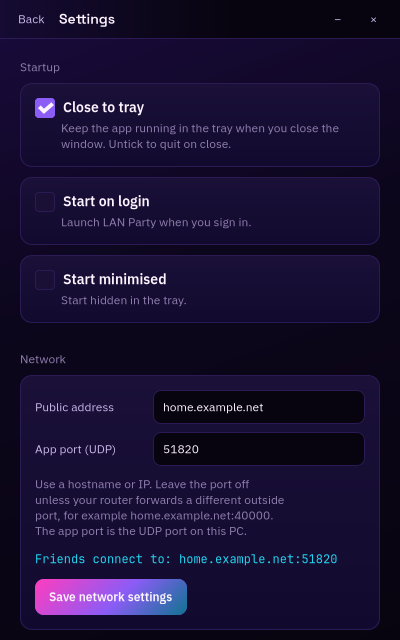
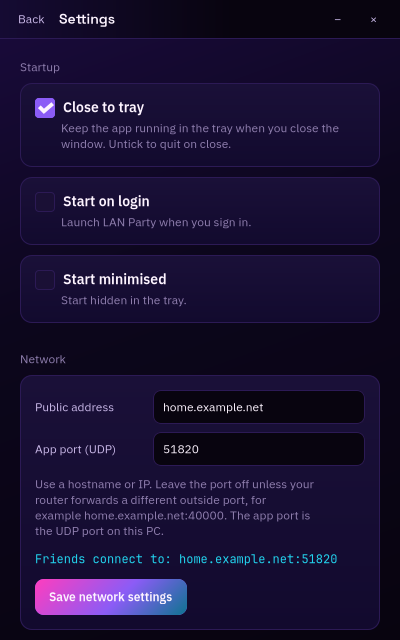
Added the GTK guide screen and applied the description measure across it
The question-mark button and the first-run link now open the How to Use guide. Guide paragraphs and the network help use the same 280px measure as the setting descriptions, keeping the right margin even. The guide keeps the real app port and local address, with Copy on the forwarding rule.

Changed region(s): [[0.09, 0.75, 0.78, 0.8438]]

diff --git a/internal/gtkui/style.css b/internal/gtkui/style.css
@@ -260,6 +260,12 @@ label.mono {
   font-size: 12px;
 }
 
+label.meta {
+  color: @muted;
+  font-family: "IBM Plex Sans";
+  font-size: 12px;
+}
+
 label.error {
   color: #FF7AA8;
   font-family: "IBM Plex Sans";

diff --git a/internal/gtkui/guide.go b/internal/gtkui/guide.go
@@ -1,0 +1,165 @@
+package gtkui
+
+import (
+	"fmt"
+	"net"
+	"strconv"
+	"strings"
+
+	"github.com/diamondburned/gotk4/pkg/gtk/v4"
+)
+
+func (u *probeUI) buildGuidePage() *gtk.ScrolledWindow {
+	settings := u.state.Settings()
+	rule := fmt.Sprintf("Forward UDP %d to %s", settings.AppPort, localIPv4())
+
+	page := gtk.NewBox(gtk.OrientationVertical, 0)
+	page.AddCSSClass("page")
+	page.SetMarginTop(20)
+	page.SetMarginBottom(20)
+	page.SetMarginStart(20)
+	page.SetMarginEnd(20)
+
+	how := gtk.NewBox(gtk.OrientationVertical, 0)
+	how.AddCSSClass("card")
+	how.SetMarginBottom(10)
+	how.Append(textLabel("How it works", "card-title"))
+	how.Append(gapBox(10))
+	how.Append(guideAddressRow("192.168.1.50:25565", "your server"))
+	how.Append(gapBox(2))
+	encrypted := textLabel("encrypted", "desc")
+	encrypted.SetHAlign(gtk.AlignCenter)
+	how.Append(encrypted)
+	how.Append(gapBox(2))
+	how.Append(guideAddressRow("127.0.0.1:25565", "their game"))
+	how.Append(gapBox(10))
+	how.Append(measuredText("Example addresses. Only published ports cross.", "desc"))
+	page.Append(how)
+
+	hosting := gtk.NewBox(gtk.OrientationVertical, 0)
+	hosting.AddCSSClass("card")
+	hosting.SetMarginBottom(10)
+	hosting.Append(textLabel("Hosting", "card-title"))
+	hosting.Append(gapBox(10))
+	hosting.Append(measuredText("1. Open your group and add the game server you want to share. Use the IP and port it listens on.", "body"))
+	hosting.Append(gapBox(10))
+	hosting.Append(measuredText("2. Forward one UDP port on your router. That is the app port, not the game port.", "body"))
+	hosting.Append(gapBox(10))
+
+	copyButton := gtk.NewButtonWithLabel("Copy")
+	copyButton.AddCSSClass("secondary")
+	copyButton.ConnectClicked(func() {
+		u.win.Widget.Clipboard().SetText(rule)
+		copyButton.SetLabel("Copied")
+	})
+	ruleLabel := textLabel(rule, "mono")
+	ruleLabel.SetHExpand(true)
+	ruleRow := gtk.NewBox(gtk.OrientationHorizontal, 8)
+	ruleRow.Append(ruleLabel)
+	ruleRow.Append(copyButton)
+	hosting.Append(ruleRow)
+	hosting.Append(gapBox(10))
+	hosting.Append(measuredText("Only this one port faces the internet. The game ports themselves stay closed.", "desc"))
+	hosting.Append(gapBox(10))
+
+	addressLine := "No public address set yet. Open Settings and fill it in."
+	if strings.TrimSpace(settings.PublicAddress) != "" {
+		addressLine = "Your public address: " + settings.PublicAddress
+	}
+	hosting.Append(measuredText(addressLine, "desc"))
+	settingsButton := gtk.NewButtonWithLabel("Settings")
+	settingsButton.AddCSSClass("quiet")
+	settingsButton.SetHAlign(gtk.AlignStart)
+	settingsButton.ConnectClicked(func() {
+		u.showSettings()
+	})
+	hosting.Append(settingsButton)
+	hosting.Append(gapBox(10))
+	hosting.Append(measuredText("3. Start the session, create an invite, and send the code to your friend.", "body"))
+	hosting.Append(gapBox(10))
+	hosting.Append(measuredText("4. When your friend joins, an approval card shows their device name and address. Allow it once.", "body"))
+	page.Append(hosting)
+
+	joining := gtk.NewBox(gtk.OrientationVertical, 0)
+	joining.AddCSSClass("card")
+	joining.SetMarginBottom(10)
+	joining.Append(textLabel("Joining", "card-title"))
+	joining.Append(gapBox(10))
+	joining.Append(measuredText("Paste the invite code and wait for the host to approve your device.", "body"))
+	joining.Append(gapBox(10))
+	joining.Append(measuredText("Open the game, then use the address shown under Ready to play. For Minecraft Java that is usually Direct Connect.", "body"))
+	page.Append(joining)
+
+	problems := gtk.NewBox(gtk.OrientationVertical, 0)
+	problems.AddCSSClass("card")
+	problems.SetMarginBottom(10)
+	problems.Append(textLabel("Problems", "card-title"))
+	problems.Append(gapBox(10))
+	problems.Append(measuredText("A friend can't reach you", "setting-title"))
+	problems.Append(measuredText("Check the public address in Settings, the UDP rule on your router, and the firewall on this PC. A VPN on the host can also hide the address. If your router's WAN address differs from your public address, your ISP may use carrier-grade NAT; this version has no relay, so direct hosting will not work.", "desc"))
+	problems.Append(gapBox(10))
+	problems.Append(measuredText("Your public address changed", "setting-title"))
+	problems.Append(measuredText("Update it in Settings. Old invites still point at the old address, so create new ones after the change.", "desc"))
+	problems.Append(gapBox(10))
+	problems.Append(measuredText("A port is already in use", "setting-title"))
+	problems.Append(measuredText("The friend app tries the next local port and shows the address it actually got. The host's published port does not change.", "desc"))
+	problems.Append(gapBox(10))
+	problems.Append(measuredText("An invite expired or was already used", "setting-title"))
+	problems.Append(measuredText("Create a new invite. Codes work once and expire after 24 hours.", "desc"))
+	page.Append(problems)
+
+	security := gtk.NewBox(gtk.OrientationVertical, 0)
+	security.AddCSSClass("card")
+	security.SetMarginBottom(10)
+	security.Append(textLabel("Security", "card-title"))
+	security.Append(gapBox(10))
+	security.Append(measuredText("Invites are single use, expire after 24 hours, and need the host to be online when they are redeemed.", "body"))
+	security.Append(gapBox(10))
+	security.Append(measuredText("The host approves each device. A different device key asks again.", "body"))
+	security.Append(gapBox(10))
+	security.Append(measuredText("Only the services you publish exist. Friends cannot reach your router, your other devices, or each other.", "body"))
+	security.Append(gapBox(10))
+	security.Append(measuredText("Keep invite codes private. Anyone with a code can try to redeem it.", "body"))
+	page.Append(security)
+
+	page.Append(gapBox(10))
+	page.Append(measuredText("App port "+strconv.Itoa(settings.AppPort)+" · UDP", "desc"))
+
+	scroll := gtk.NewScrolledWindow()
+	scroll.SetPolicy(gtk.PolicyNever, gtk.PolicyAutomatic)
+	scroll.SetChild(page)
+	scroll.SetVExpand(true)
+	return scroll
+}
+
+func guideAddressRow(address, note string) *gtk.Box {
+	row := gtk.NewBox(gtk.OrientationHorizontal, 8)
+	addr := textLabel(address, "mono")
+	addr.SetHExpand(true)
+	row.Append(addr)
+	row.Append(textLabel(note, "meta"))
+	return row
+}
+
+func measuredText(text, class string) *gtk.Label {
+	label := textLabel(text, class)
+	label.SetSizeRequest(descriptionWidth, -1)
+	return label
+}
+
+func localIPv4() string {
+	addrs, err := net.InterfaceAddrs()
+	if err != nil {
+		return "this PC"
+	}
+	for _, addr := range addrs {
+		ipnet, ok := addr.(*net.IPNet)
+		if !ok || ipnet.IP.IsLoopback() {
+			continue
+		}
+		if v4 := ipnet.IP.To4(); v4 != nil {
+			return v4.String()
+		}
+	}
+	return "this PC"
+}

diff --git a/internal/gtkui/settings.go b/internal/gtkui/settings.go
@@ -12,6 +12,8 @@ import (
 	"github.com/desynkro/lan-party/internal/config"
 )
 
+const descriptionWidth = 280
+
 func (u *probeUI) buildSettingsPage() *gtk.ScrolledWindow {
 	settings := u.state.Settings()
 	feedback := newFeedback()
@@ -120,7 +122,9 @@ func (u *probeUI) buildSettingsPage() *gtk.ScrolledWindow {
 	networkCard.Append(gapBox(8))
 	networkCard.Append(formRow("App port (UDP)", portEntry))
 	networkCard.Append(gapBox(10))
-	networkCard.Append(textLabel("Use a hostname or IP. Leave the port off unless your router forwards a different outside port, for example home.example.net:40000. The app port is the UDP port on this PC.", "help"))
+	networkHelp := textLabel("Use a hostname or IP. Leave the port off unless your router forwards a different outside port, for example home.example.net:40000. The app port is the UDP port on this PC.", "help")
+	networkHelp.SetSizeRequest(descriptionWidth, -1)
+	networkCard.Append(networkHelp)
 	networkCard.Append(gapBox(10))
 	networkCard.Append(preview)
 
@@ -194,7 +198,14 @@ func (u *probeUI) settingCard(title, description string, active bool, changed fu
 	checkRow.Append(check)
 	checkRow.Append(checkTitle)
 
-	descriptionRow := settingDescriptionRow(description)
+	descriptionLabel := textLabel(description, "desc")
+	descriptionLabel.SetHExpand(true)
+	descriptionLabel.SetSizeRequest(descriptionWidth, -1)
+
+	descriptionRow := gtk.NewBox(gtk.OrientationHorizontal, 0)
+	descriptionRow.Append(gapWidth(26))
+	descriptionRow.Append(descriptionLabel)
+	descriptionRow.Append(gapWidth(24))
 	descriptionRow.SetMarginTop(2)
 
 	card := gtk.NewBox(gtk.OrientationVertical, 0)
@@ -242,21 +253,6 @@ func gapWidth(width int) *gtk.Box {
 	box := gtk.NewBox(gtk.OrientationHorizontal, 0)
 	box.SetSizeRequest(width, -1)
 	return box
-}
-
-// settingDescriptionRow is the fixed text column used under a checkbox title.
-// Keeping the width constant stops short descriptions stopping early and long
-// ones running into the card edge.
-func settingDescriptionRow(text string) *gtk.Box {
-	label := textLabel(text, "desc")
-	label.SetHExpand(true)
-	label.SetSizeRequest(280, -1)
-
-	row := gtk.NewBox(gtk.OrientationHorizontal, 0)
-	row.Append(gapWidth(26))
-	row.Append(label)
-	row.Append(gapWidth(24))
-	return row
 }
 
 type feedback struct {

diff --git a/internal/gtkui/probe.go b/internal/gtkui/probe.go
@@ -68,6 +68,8 @@ func RunProbe(argv []string) int {
 		ui.build()
 		if os.Getenv("LANPARTY_GTK_SCREEN") == "settings" {
 			ui.showSettings()
+		} else if os.Getenv("LANPARTY_GTK_SCREEN") == "guide" {
+			ui.showGuide()
 		} else {
 			ui.showHome()
 		}
@@ -99,6 +101,7 @@ func (u *probeUI) build() {
 	u.stack = gtk.NewStack()
 	u.stack.AddNamed(u.buildHomePage(), "home")
 	u.stack.AddNamed(u.buildSettingsPage(), "settings")
+	u.stack.AddNamed(u.buildGuidePage(), "guide")
 
 	appBar := u.buildAppBar()
 
@@ -168,7 +171,7 @@ func (u *probeUI) buildAppBar() *gtk.Box {
 	u.help.AddCSSClass("quiet")
 	u.help.SetTooltipText("How to Use")
 	u.help.ConnectClicked(func() {
-		log.Println("gtk probe: guide requested")
+		u.showGuide()
 	})
 	bar.Append(u.help)
 
@@ -214,6 +217,15 @@ func (u *probeUI) showSettings() {
 	u.back.SetVisible(true)
 	u.help.SetVisible(false)
 	u.settings.SetVisible(false)
+}
+
+func (u *probeUI) showGuide() {
+	u.stack.SetVisibleChildName("guide")
+	u.title.SetText("How to Use")
+	u.logo.SetVisible(false)
+	u.back.SetVisible(true)
+	u.help.SetVisible(false)
+	u.settings.SetVisible(true)
 }
 
 func (u *probeUI) start() {
@@ -316,7 +328,7 @@ func (u *probeUI) buildHomePage() *gtk.ScrolledWindow {
 	guide.SetHAlign(gtk.AlignCenter)
 	guide.SetMarginBottom(18)
 	guide.ConnectClicked(func() {
-		log.Println("gtk probe: setup guide clicked")
+		u.showGuide()
 	})
 	page.Append(guide)
 
